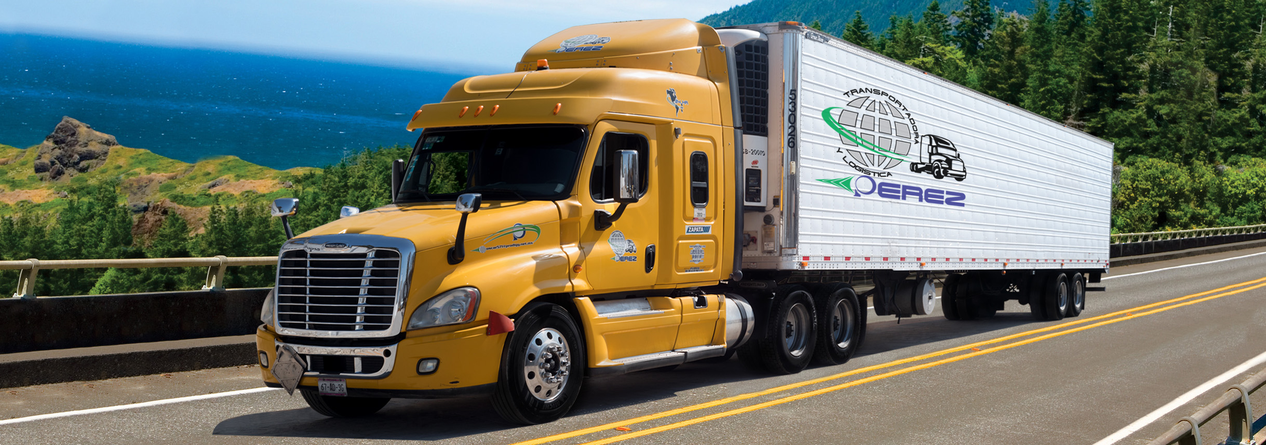
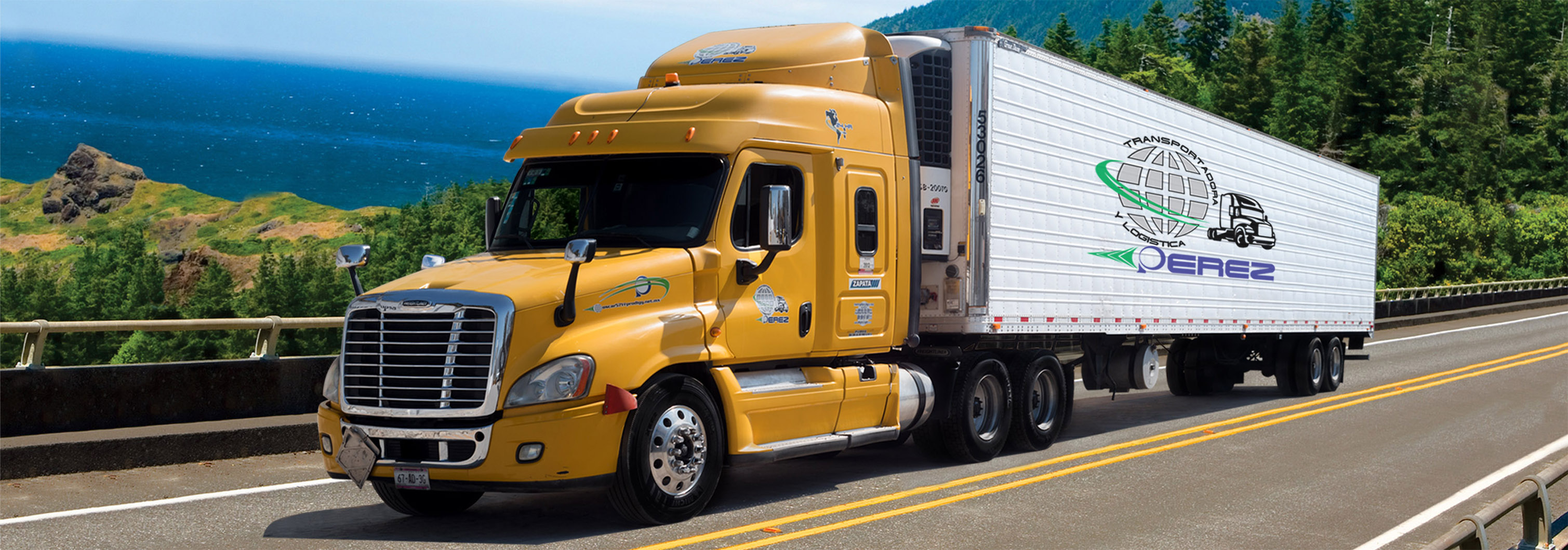
Agrego collapser en inicio, modifico altura de imagenes en slider

Changed region(s): [[0.6235, 0.182, 0.8105, 0.5158]]

diff --git a/css/main.css b/css/main.css
@@ -43,7 +43,7 @@
     }
 /* home styles */
     .slider{
-        height: auto;
+        height: 520px !important;
     }
     .title{
         font-size: 2rem;

diff --git a/index.view.php b/index.view.php
@@ -53,22 +53,24 @@
         <div class="carousel-inner">
             <div class="carousel-item active">
                 <div class="blue text-light container-fluid">
-                    <div class="row">
+                    <div class="row" data-toggle="collapse" data-target="#collapseOne" aria-expanded="false" aria-controls="collapseOne">
                         <div class="col">
                             <p class="title pt-4 pl-4">MISIÓN, VISIÓN Y TRAYECTORIA</p>
                         </div>
                     </div>
-                    <div class="row">
-                        <div class="col-12 col-md-6">
-                            <p class="text-justify px-4">Tenemos 50 años de experiencia en el transporte terrestre; hemos crecido a la par de las regulaciones para el traslado de materiales y residuos peligrosos.</p>
-                        </div>
-                        <div class="col-12 col-md-6">
-                            <p class="text-justify px-4">Anticipamos las necesidades del cliente y del mercado excediendo los estándares requeridos a través de la inversión, creatividad e innovación.</p>
+                    <div id="collapseOne" class="collapse" aria-labelledby="headingOne" data-parent="#accordion">
+                        <div class="row">
+                            <div class="col-12 col-md-6">
+                                <p class="text-justify px-4">Tenemos 50 años de experiencia en el transporte terrestre; hemos crecido a la par de las regulaciones para el traslado de materiales y residuos peligrosos.</p>
+                            </div>
+                            <div class="col-12 col-md-6">
+                                <p class="text-justify px-4">Anticipamos las necesidades del cliente y del mercado excediendo los estándares requeridos a través de la inversión, creatividad e innovación.</p>
+                            </div>
                         </div>
                     </div>
                 </div>
                 <div class="position-relative">
-                    <img class="d-block img-fluid" src="img/inicio/gps.jpg" alt="1 slide">
+                    <img class="d-block slider" src="img/inicio/gps.jpg" alt="1 slide">
                     <div class="position-absolute field bottom d-none d-md-block">
                         <p class="w-50 d-block float-left text-light py-4 px-5 text-justify">Buscamos la excelencia y la rentabilidad mediante los niveles óptimos de competitividad, servicio, calidad, seguridad y protección al medio ambiente.</p>
                         <p class="w-50 d-block float-left text-light py-4 px-5 text-justify">Reconocemos el valor de nuestro personal fomentando su constante superación para contar con recursos humanos calificados y comprometidos.</p>
@@ -77,39 +79,47 @@
             </div>
             <div class="carousel-item">
                 <div class="blue text-light container-fluid">
-                    <div class="row">
-                        <div class="col-12 col-md-5">
+                    <div class="row" data-toggle="collapse" data-target="#collapseTwo" aria-expanded="false" aria-controls="collapseTwo">
+                        <div class="col">
                             <p class="title pt-4 pl-4">RASTREO GPS</p>
-                            <p class="text-justify px-4">Rastreo y monitoreo permanente durante todo el trayecto de su carga.</p>
                         </div>
-                        <div class="col-12 col-md-7">
-                            <ul class="list-unstyled py-4 text-center">
-                                <li>√  Apagado de motor</li>
-                                <li>√  Sensores de movimiento</li>
-                                <li>√  Cuenta espejo</li>
-                                <li>√  Comunicación con operadores</li>
-                            </ul>
+                    </div>
+                    <div id="collapseTwo" class="collapse" aria-labelledby="headingTwo">
+                        <div class="row">
+                            <div class="col-12 col-md-5">
+                                <p class="text-justify px-4">Rastreo y monitoreo permanente durante todo el trayecto de su carga.</p>
+                            </div>
+                            <div class="col-12 col-md-7">
+                                <ul class="list-unstyled py-4 text-center pt-4">
+                                    <li>√  Apagado de motor</li>
+                                    <li>√  Sensores de movimiento</li>
+                                    <li>√  Cuenta espejo</li>
+                                    <li>√  Comunicación con operadores</li>
+                                </ul>
+                            </div>
                         </div>
                     </div>
                 </div>
                 
-                <img class="d-block img-fluid" src="img/inicio/equipo.jpg" alt="2 slide">
+                <img class="d-block slider" src="img/inicio/equipo.jpg" alt="2 slide">
             </div>
             <div class="carousel-item">
                 <div class="blue text-light container-fluid">
-                    <div class="row">
+                    <div class="row" data-toggle="collapse" data-target="#collapseThree" aria-expanded="false" aria-controls="collapseThree">
                         <div class="col">
                             <p class="title pt-4 pl-4">AUTOPROTECCIÓN</p>
                         </div>
                     </div>
-                    <div class="row">
-                        <div class="col-12 col-lg-6">
-                            <p class="text-justify px-4">Nuestros operadores están capacitados para cualquier situación de derrame o fuga durante su trayecto. Para eso cuentan con todas las medidas de contención como lo son </p>
+                    <div id="collapseThree" class="collapse" aria-labelledby="headingThree">
+                        <div class="row">
+                            <div class="col-12 col-lg-6">
+                                <p class="text-justify px-4">Nuestros operadores están capacitados para cualquier situación de derrame o fuga durante su trayecto. Para eso cuentan con todas las medidas de contención como lo son </p>
+                            </div>
                         </div>
                     </div>
                 </div>
                 <div class="position-relative">
-                    <img class="d-block img-fluid" src="img/inicio/autoproteccion.jpg" alt="3 slide">
+                    <img class="d-block slider" src="img/inicio/autoproteccion.jpg" alt="3 slide">
                     <div class="position-absolute field right d-none d-lg-block text-light">
                         <ul class="list-unstyled px-5 py-5 responsive-font">
                             <li>√ Material absorbente de 50 kg.</li>
@@ -132,14 +142,16 @@
             </div>
             <div class="carousel-item">
                 <div class="blue text-light container-fluid">
-                    <div class="row">
+                    <div class="row" data-toggle="collapse" data-target="#collapseFour" aria-expanded="false" aria-controls="collapseFour">
                         <div class="col">
                             <p class="title pt-4 pl-4">EVALUACIÓN DE RIESGOS</p>
                         </div>
                     </div>
-                    <div class="row">
-                        <div class="col-12 col-lg-7">
-                            <p class="text-justify px-4">Capacidad, experiencia y equipo necesarios para transportar de forma segura y eficiente productos químicos, agroquímicos y materiales peligrosos en vehículos terrestres. Equipo de seguridad especializado como lo es: </p>
+                    <div id="collapseFour" class="collapse" aria-labelledby="headingFour">
+                        <div class="row">
+                            <div class="col-12 col-lg-7">
+                                <p class="text-justify px-4">Capacidad, experiencia y equipo necesarios para transportar de forma segura y eficiente productos químicos, agroquímicos y materiales peligrosos en vehículos terrestres. Equipo de seguridad especializado como lo es: </p>
+                            </div>
                         </div>
                     </div>
                 </div>
@@ -164,10 +176,16 @@
             </div>
             <div class="carousel-item">
                 <div class="blue text-light container-fluid">
-                    <div class="row">
+                    <div class="row" data-toggle="collapse" data-target="#collapseFive" aria-expanded="false" aria-controls="collapseFive">
                         <div class="col-12 col-lg-6">
                             <p class="title pt-4 pl-4">MIEMBROS PROCCYT</p>
+                        </div>
+                    </div>
+                    <div id="collapseFive" class="collapse" aria-labelledby="headingFive">
+                        <div class="row">
+                            <div class="col-12 col-lg-7">
                             <p class="text-justify px-4">Reconocimiento por parte de PROCCYT por alcanzar los más altos estándares de calidad en transportación, noviembre 2004.</p>
+                            </div>
                         </div>
                     </div>
                 </div>
@@ -177,7 +195,7 @@
                             <img class="d-block float-right slider responsive-with" id="slide-proc" src="img/inicio/proccyt.png" alt="5 slide">
                         </div>
                         <div class="col-6 col-lg-5 align-self-center">
-                            <img class="d-block mx-auto slider" id="proccyt-slide" src="img/inicio/logo_proccyt.png" alt="proccyt">
+                            <img class="d-block mx-auto" id="proccyt-slide" src="img/inicio/logo_proccyt.png" alt="proccyt">
                         </div>
                     </div>
                 </div>
@@ -282,7 +300,7 @@
         </div>
         <div class="row no-gutters p-5 justify-content-center">
             <div class="col-6 col-sm-4 col-md-3 col-lg-3 align-self-center p-4">
-                <img class="clientes d-block mx-auto" src="img/clientes/dawn.png" alt="dawn">
+                <img class="clientes d-block mx-auto" src="img/clientes/dow.png" alt="dow">
             </div>
             <div class="col-6 col-sm-4 col-md-3 col-lg-3 align-self-center p-4">
                 <img class="clientes d-block mx-auto" src="img/clientes/dupont.png" alt="dupont">
@@ -304,7 +322,7 @@
                 <img class="clientes d-block mx-auto" src="img/clientes/comex.png" alt="comex">
             </div>
             <div class="col-6 col-sm-4 col-md-3 col-lg-3 align-self-center p-4">
-                <img class="clientes d-block mx-auto" src="img/clientes/novartis.png" alt="novartis">
+                <img class="clientes d-block mx-auto" src="img/clientes/agricultura.jpg" alt="agricultura">
             </div>
             <div class="w-100 d-none d-md-block"></div>
             <div class="col-6 col-sm-4 col-md-3 col-lg-3 align-self-center p-4">
@@ -317,7 +335,7 @@
                 <img class="clientes d-block mx-auto" src="img/clientes/syngenta.png" alt="syngenta">
             </div>
             <div class="col-6 col-sm-4 col-md-3 col-lg-2 align-self-center p-4">
-                <img class="clientes d-block mx-auto" src="img/clientes/unifoods.png" alt="unifoods">
+                <img class="clientes d-block mx-auto" src="img/clientes/chedraui.png" alt="chedraui">
             </div>
             <div class="col-6 col-sm-4 col-md-3 col-lg-2 align-self-center p-4">
                 <img class="clientes d-block mx-auto" src="img/clientes/walmart.png" alt="walmart">
